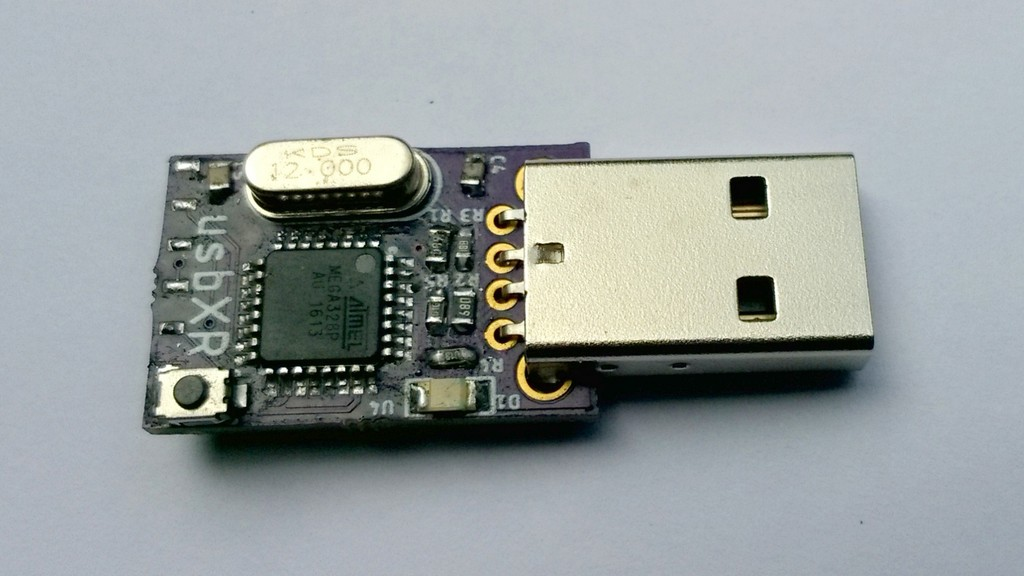
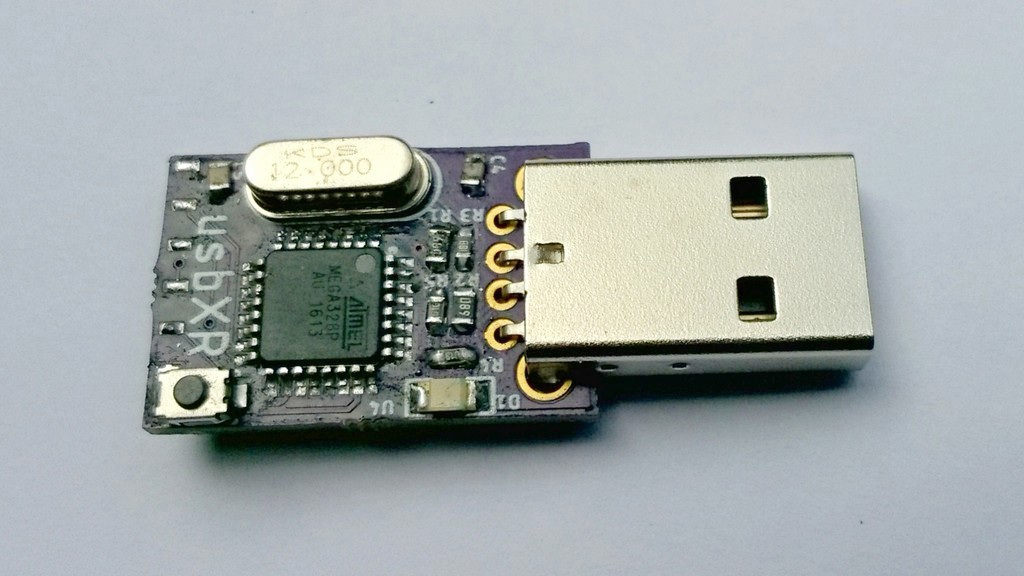
pic added

Changed region(s): [[0.1875, 0.3125, 0.8438, 0.8125]]

diff --git a/README.md b/README.md
@@ -1,6 +1,8 @@
 usbXR - Low cost USB Wireless transceiver
 =========================================
 
+![front](https://github.com/visakhanc/usbXR/tree/master/pic/front-1.jpg) ![back](https://github.com/visakhanc/usbXR/tree/master/pic/back-1.jpg)
+
 usbXR is basically a USB adapter for the RFM75 2.4GHz wireless module. The USB functionality is implemented using AVR ATmega328 and the [v-usb](https://www.obdev.at/products/vusb/index.html) firmware-only USB driver for AVRs, which emulates USB low-speed protocol. The device can be used for bi-directional communication with *remote* nodes, containing the same wireless module (ie. RFM75 or other compatible modules like RFM70/RFM73).
 
 Once the [HID-Bootloader](https://github.com/visakhanc/usbXR/tree/master/bootloader/HID-bootloader-mega328) is flashed, you can load your application to usbXR using a command-line utility. In addition you can program remote node AVRs over-the-air! Both remote and self programming uses a single command line application bootloadHID:
